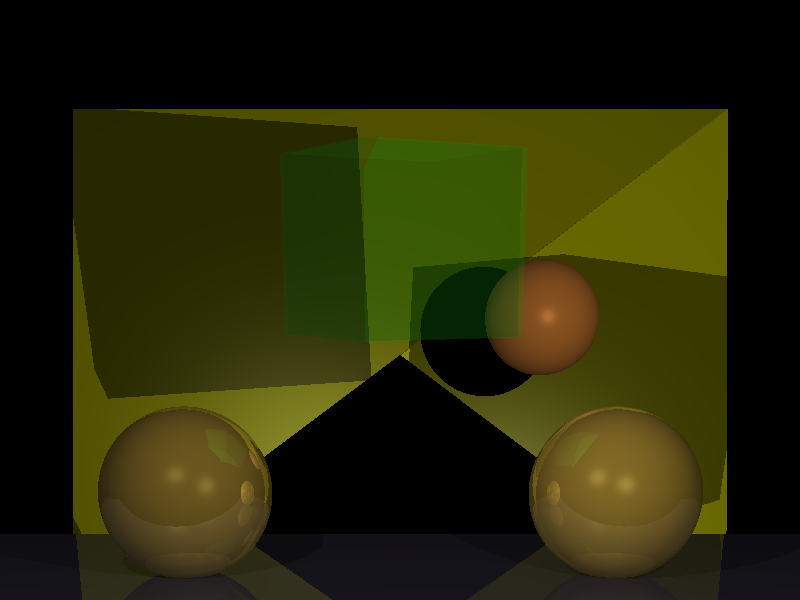
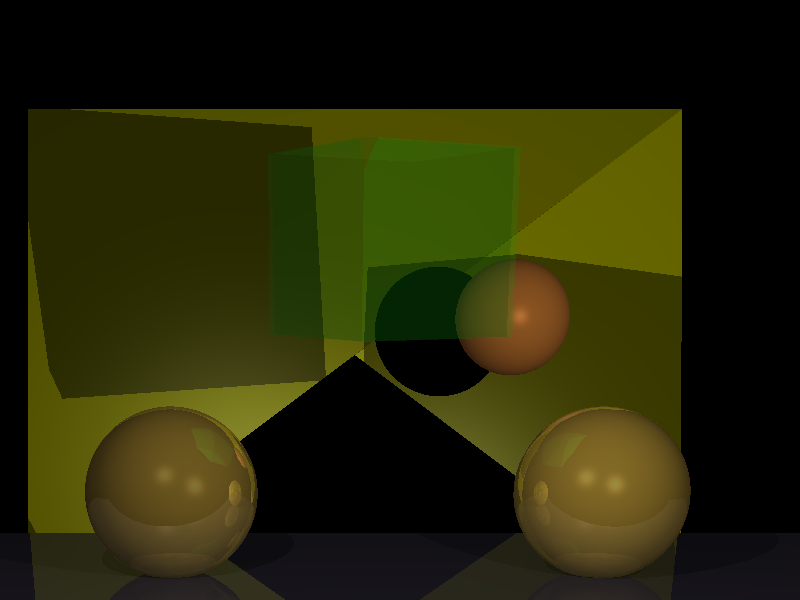
clean up newer project, so they are compilable again

diff --git a/Room/Program.cs b/Room/Program.cs
@@ -1,11 +1,8 @@
 using Commons;
 using Commons._3D;
-using Commons.Imaging;
 using Commons.Lighting;
 using Commons.Materials;
 using Commons.Raytracer;
-using SixLabors.ImageSharp;
-using SixLabors.ImageSharp.PixelFormats;
 
 namespace Room;
 
@@ -14,7 +11,7 @@ internal static class Program
     private const int Width = 800;
     private const int Height = 600;
     private const int Depth = 600;
-    private const string FilePath = ImageHandler.ImageFolderPath + "refraction-cube-in-room.png";
+    private const string FilePath = "refraction-cube-in-room.png";
 
     private static readonly List<IObject3D> Objects3D =
     [
@@ -68,21 +65,10 @@ internal static class Program
 
     private static void CreateImage()
     {
-        var rayTracer = new Raytracer(Objects3D, LightSources);
-        using var image = new Image<Rgba32>(Width, Height);
-        for (var y = 0; y < Height; y++)
-            for (var x = 0; x < Width; x++)
-            {
-                // camera setup
-                var origin = new Vector3D(x, y, 0);
-                var focus = new Vector3D(Width / 2, 599, -1200);
-                var direction = origin - focus;
-                var rayIntoScreen = new Ray(origin, direction);
+        var raytracer = new Raytracer(new Settings(FilePath));
+        var scene = new Scene(Objects3D, LightSources, new Dimensions(800, 600));
+        var camera = new Camera(new Vector3D(300, 599, -1200));
 
-                var color = rayTracer.CalcRay(rayIntoScreen);
-                image[x, y] = color.ConvertToRgba32();
-            }
-
-        image.SaveAsPng(FilePath);
+        raytracer.RenderScene(scene, camera);
     }
 }

diff --git a/Reflection/Program.cs b/Reflection/Program.cs
@@ -4,8 +4,6 @@ using Commons.Imaging;
 using Commons.Lighting;
 using Commons.Materials;
 using Commons.Raytracer;
-using SixLabors.ImageSharp;
-using SixLabors.ImageSharp.PixelFormats;
 
 namespace Reflection;
 
@@ -14,7 +12,7 @@ internal static class Program
     private const int Width = 800;
     private const int Height = 600;
     private const int Depth = 600;
-    private const string FilePath = ImageHandler.ImageFolderPath + "transparency.png";
+    private const string FilePath = "transparency.png";
 
     private static readonly List<IObject3D> Objects3D =
     [
@@ -67,21 +65,10 @@ internal static class Program
 
     private static void CreateImage()
     {
-        var rayTracer = new Raytracer(Objects3D, LightSources);
-        using var image = new Image<Rgba32>(Width, Height);
-        for (var y = 0; y < Height; y++)
-            for (var x = 0; x < Width; x++)
-            {
-                // camera setup
-                var origin = new Vector3D(x, y, 0);
-                var focus = new Vector3D(Width / 2, 599, -1200);
-                var direction = origin - focus;
-                var rayIntoScreen = new Ray(origin, direction);
+        var raytracer = new Raytracer(new Settings(FilePath));
+        var scene = new Scene(Objects3D, LightSources, new Dimensions(800, 600));
+        var camera = new Camera(new Vector3D(300, 599, -1200));
 
-                var color = rayTracer.CalcRay(rayIntoScreen);
-                image[x, y] = color.ConvertToRgba32();
-            }
-
-        image.SaveAsPng(FilePath);
+        raytracer.RenderScene(scene, camera);
     }
 }

diff --git a/random-pixel-image/Program.cs b/random-pixel-image/Program.cs
@@ -35,10 +35,4 @@ internal static class Program
 
         return bitmap;
     }
-
-    private static void SaveBitmapAsImage(SKBitmap bitmap)
-    {
-        using var fs = new FileStream(FilePath, FileMode.Create);
-        bitmap.Encode(fs, SKEncodedImageFormat.Png, 100);
-    }
 }
